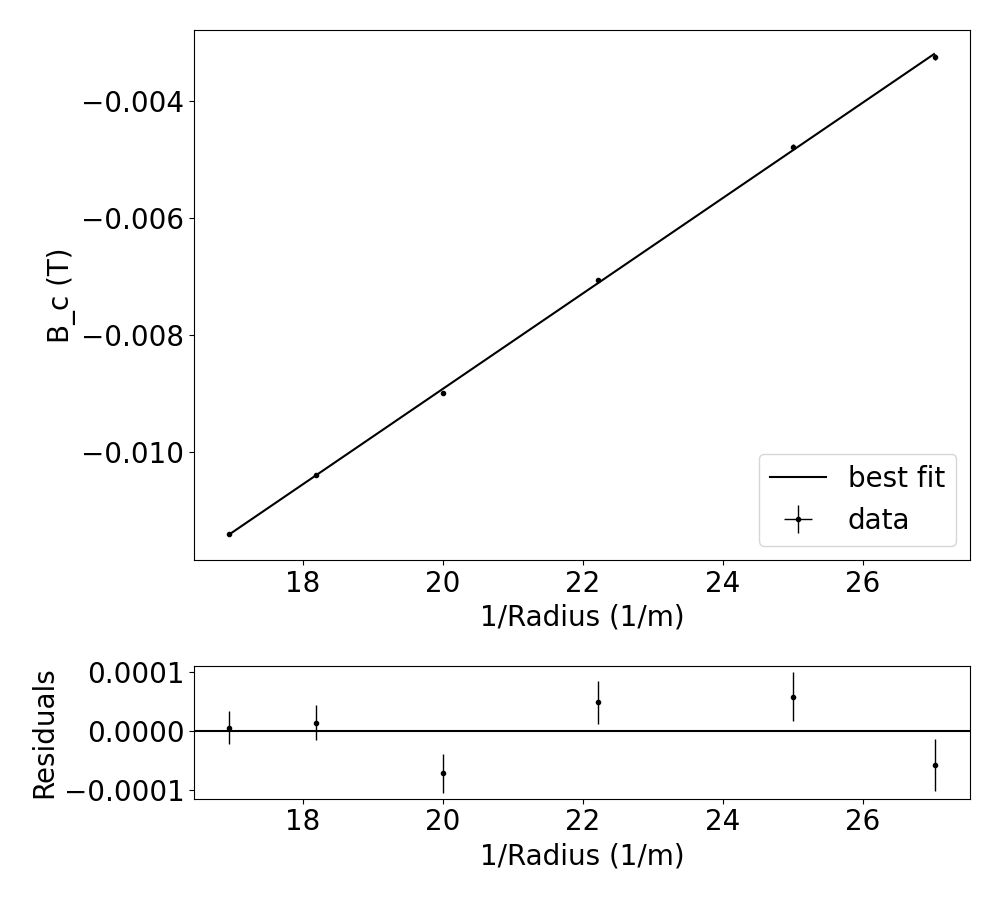
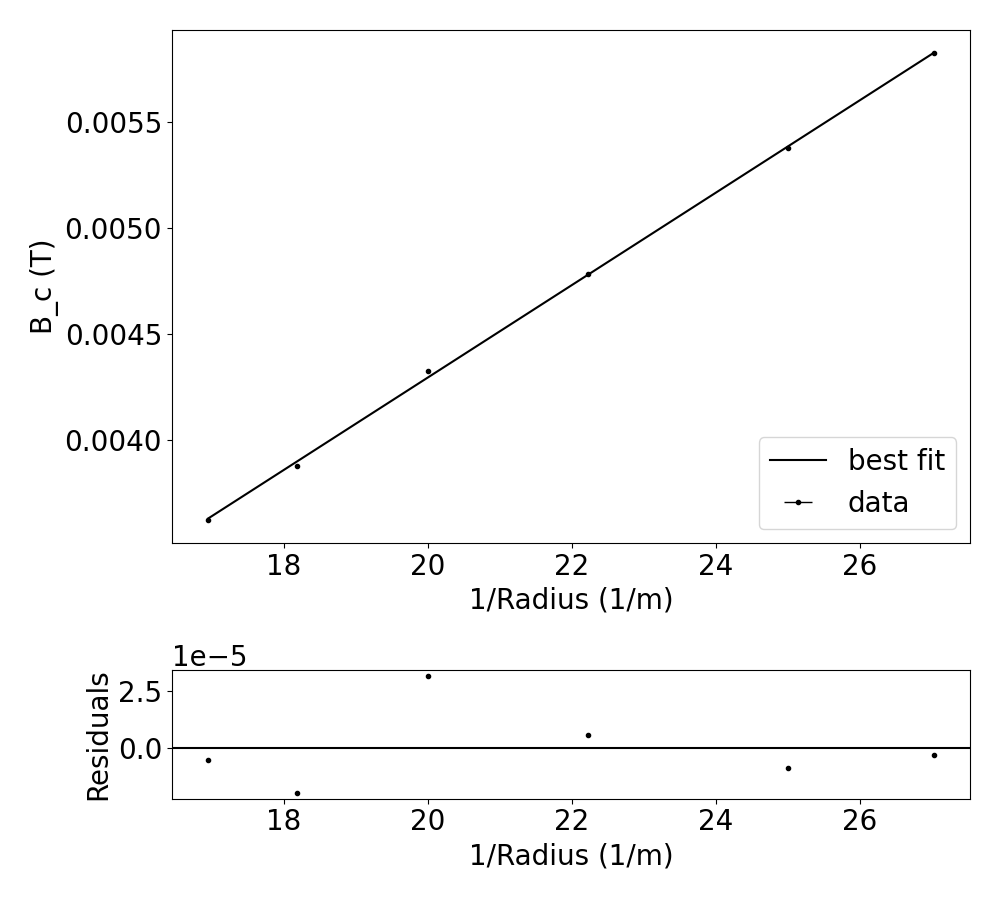
order of magnitude off-idk whats wrong

diff --git a/lab5-charge-to-mass/extra_feild.py b/lab5-charge-to-mass/extra_feild.py
@@ -26,15 +26,14 @@ b_c_err = [tl.error_mult(current, R, current_err, R_err, bc) for current, curren
 print(b_c[0],b_c_err[0])
 
 #correct for the non-uniformity of the magnetic field
-b_c = [b*(1-(r**4/(R**4*(0.6583+0.29*(r**2/R**2))**2))) for b,r in zip(b_c,r)]
-
+#b_c = [b*(1-(r**4/(R**4*(0.6583+0.29*(r**2/R**2))**2))) for b,r in zip(b_c,r)]
 
 inital_guess = [1,1]
 # fit B_c to a linear function of 1/r
-bb.plot_fit(linear, 1/r, b_c, init_guess=inital_guess, font_size=20, xlabel="1/Radius (1/m)", ylabel="B_c (T)", yerror=b_c_err, xerror=[0.5/2000]*6)
+bb.plot_fit(linear, 1/r, b_c, init_guess=inital_guess, font_size=20, xlabel="1/Radius (1/m)", ylabel="B_c (T)", xerror=[0.5/2000]*6)
 
-alpha_fit,alpha_fit_unc = 0.00021821200599226923,2.233669795148888*10**-6
-b_e,b_e_unc = -7.150238088702478*10**-5,4.8827862238711655*10**-5
+alpha_fit,alpha_fit_unc = 0.0008144018676616776,6.850907260825011*10**-6
+b_e,b_e_unc = -0.025208420374544436,0.00014976036350813733
 
 rmse = tl.rmse(b_c, linear(1/r, alpha_fit,b_e))
 print(f"RMSE: {rmse}")

diff --git a/lab5-charge-to-mass/ratio_calc.py b/lab5-charge-to-mass/ratio_calc.py
@@ -9,19 +9,19 @@ R = 0.0326
 R_err = .5/2000
 n = 130
 
-b_e,b_e_unc =0.02521968308183612,4.8827862238711655*10**-5
+b_e,b_e_unc = -7.150239265774714*10**-5, 0.00014976036350813733
 
 k = 1/math.sqrt(2) * (4/5)**(3/2) * mue_0 * n / R
 
-I_0 = k * b_e
-I_0_err = tl.error_mult(b_e, k, b_e_unc, 0, I_0)
+I_o = b_e/k
+I_0_err = tl.error_mult(b_e, k, b_e_unc, 0, I_o)
 
 ##calculation of constant with fixed current fit
 i = 1.076
 a,a_err = 0.004006761994633504, 0.00004674028226632868
-e_ratio_I = 1/((a*k)*(i+1/math.sqrt(2)*I_0))**2
+e_ratio_I = 1/((a*k)*(i+1/math.sqrt(2)*I_o))**2
 
-e_ratio_I_err = tl.error_mult(a*k, i+1/math.sqrt(2)*I_0, a_err, I_0_err, e_ratio_I)
+e_ratio_I_err = tl.error_mult(a*k, i+1/math.sqrt(2)*I_o, a_err, I_0_err, e_ratio_I)
 
 print(e_ratio_I, e_ratio_I_err)
 
@@ -36,7 +36,6 @@ print(e_ratio_V)
 
 #compare to the accepted value
 accepted = 1.758820024*10**11
-accepted_unc = 0.000000011*10**11
 
 #percent error
 percent_error_I = abs(e_ratio_I - accepted)/accepted
